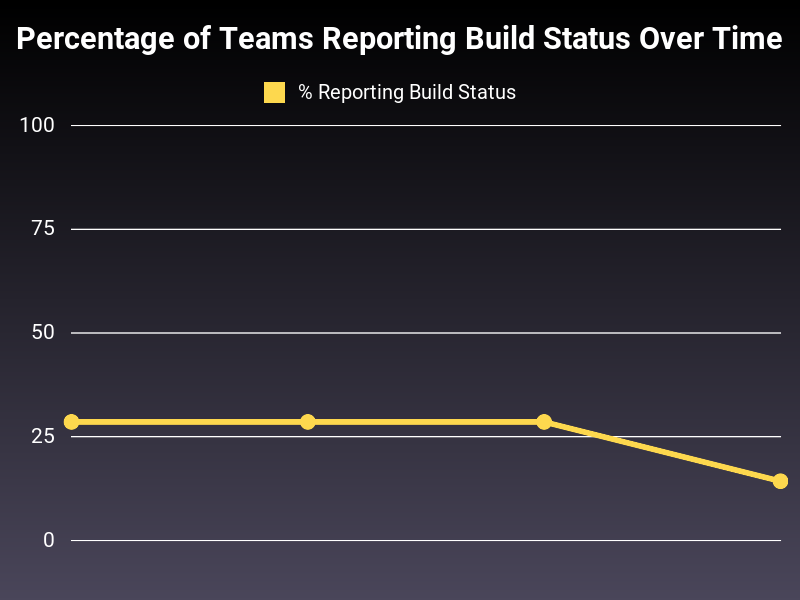
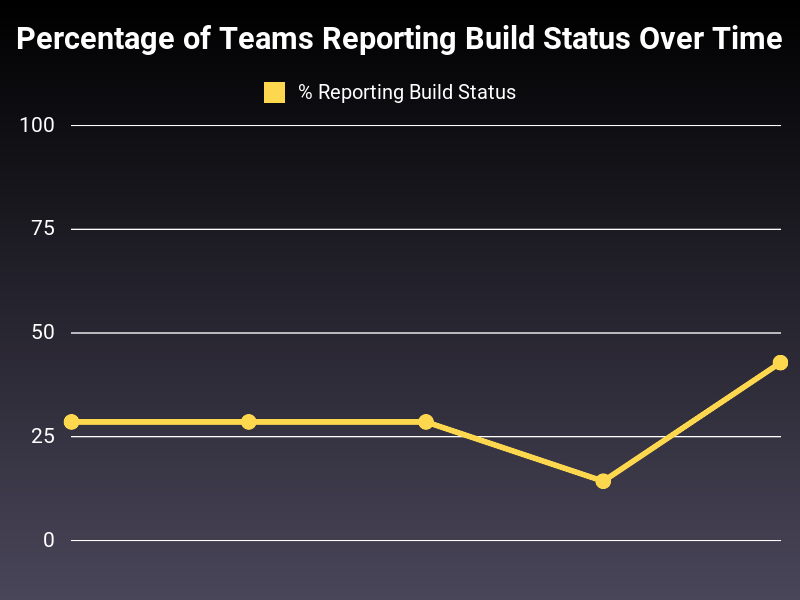
meeting recording (#29)
plus minor bugfixes

diff --git a/src/slack_meeting_stats.rb b/src/slack_meeting_stats.rb
@@ -61,7 +61,7 @@ def prompt_team_or_q(teams)
   loop do
     log.info("Choose a team that was present:\n")
     (teams + ['<Other>']).each_with_index do |team, idx|
-      log.info("\t[#{idx}] #{team}\n")
+      log.info("\t[#{idx}] #{team}")
     end
     log.info("\t[q] <quit>")
     response = gets.strip.downcase
@@ -375,7 +375,7 @@ case options[:mode]
 when 'record'
   team_data = collect_team_data(meeting_date)
   record_meeting_data(meeting_date, team_data, options)
-when 'generate_md'
+when 'generate'
   if options[:dryrun]
     log.info('DRYRUN: Would update plots')
     log.info("DRYRUN: Would update #{SLACK_MD_FILE} with:")

diff --git a/team_slack_reports.md b/team_slack_reports.md
@@ -12,6 +12,18 @@ This page is generated by slack_meeting_stats.rb, do not edit manually
 [![Build Status
  Reports](images/build_status-small.png)](images/build_status-full.png)
 
+## 2025-03-27
+
+| Team | Present | Current work | Build Status | If builds broken, points to work to fix it | Extra |
+| --- | ---- | --- | --- | --- | --- |
+| Automate | ✅ | ✅ | ❌ | ❌ | - |
+| Chef Client | ✅ | ✅ | main:❌, 18:✅ | ❌ | listed merged PRs |
+| Chef Server | ✅ | ✅ | main:❌ | ❌ | - |
+| Chef Workstation | ✅ | ✅ | ❌ | ❌ | listed merged PRs |
+| Courier | ✅ | ✅ | ❌ | ❌ | - |
+| Habitat | ✅ | ✅ | main:✅ | ❌ | - |
+| Inspec | ✅ | ✅ | ❌ | ❌ | listed merged PRs |
+
 ## 2025-03-20
 
 | Team | Present | Current work | Build Status | If builds broken, points to work to fix it | Extra |
